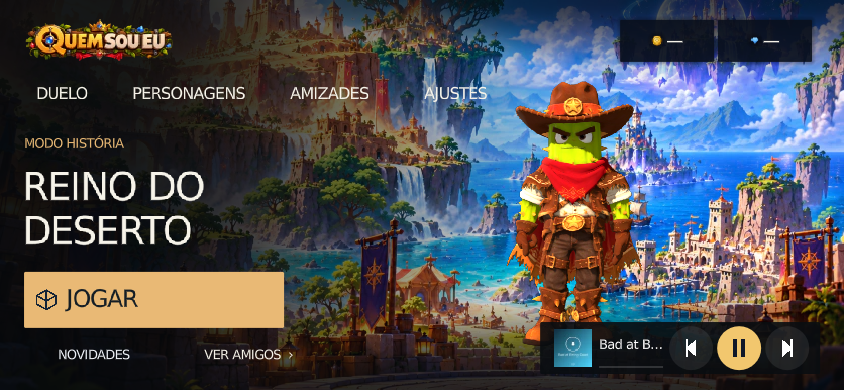
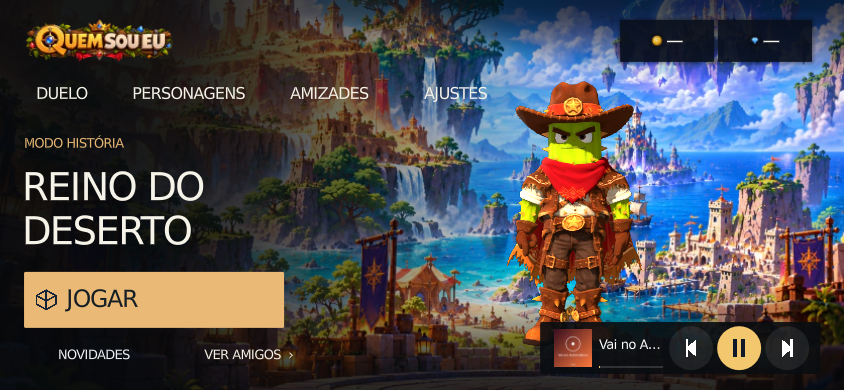
Fix stepped MSDF text edges by using linear UI filtering

diff --git a/evidence/lobby-composition/README.md b/evidence/lobby-composition/README.md
@@ -46,3 +46,24 @@ Reprodução:
 godot --headless --audio-driver Dummy --path . -s tools/godot/menu_flow.gd
 godot --headless --audio-driver Dummy --path . -s tools/godot/menu_flow.gd -- --resolution=844x390
 ```
+
+## Correção da filtragem dos textos
+
+O valor global `rendering/textures/canvas_textures/default_texture_filter=3`
+corresponde a **Nearest Mipmap** (confirmado pelo enum de ProjectSettings no motor).
+Os textos herdavam essa filtragem mesmo usando fontes MSDF: as bordas apareciam
+em degraus. O lobby agora define `CanvasItem.TEXTURE_FILTER_LINEAR_WITH_MIPMAPS`;
+a interpolação suaviza a leitura dos glifos e preserva os mipmaps das artes.
+O filtro global, os perfis gráficos e a composição não foram alterados.
+
+Comparação na **mesma resolução**, com a mesma fonte, tamanhos e layout:
+[Nearest — antes, 2532×1170](text-quality/before-2532x1170.png) e
+[Linear — depois, 2532×1170](text-quality/after-2532x1170.png).
+A densidade 3× foi simulada com `--ui-scale=3`, equivalente a 844×390 pontos.
+São capturas nativas do motor; não houve ampliação posterior da imagem.
+As faixas de música diferem por reprodução normal.
+
+A captura 844×390 também foi atualizada. A navegação compacta continua passando
+nas 25 verificações e o guard de design passou. Não houve validação em navegador
+móvel físico; esta evidência confirma a correção de filtragem no motor, não toda
+possível causa de baixa resolução no dispositivo.
